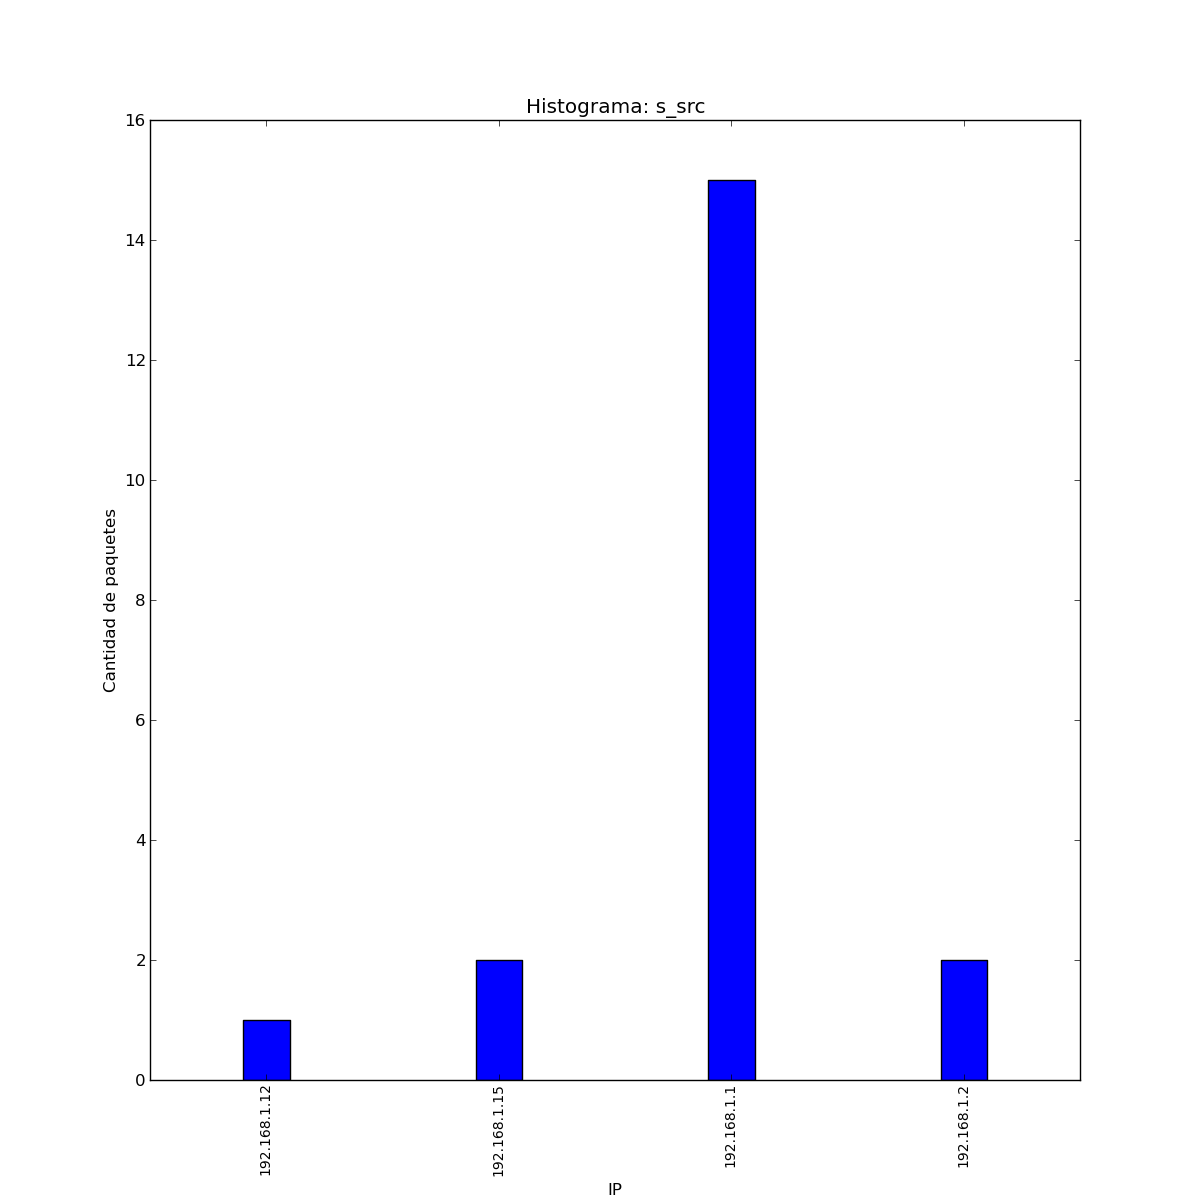
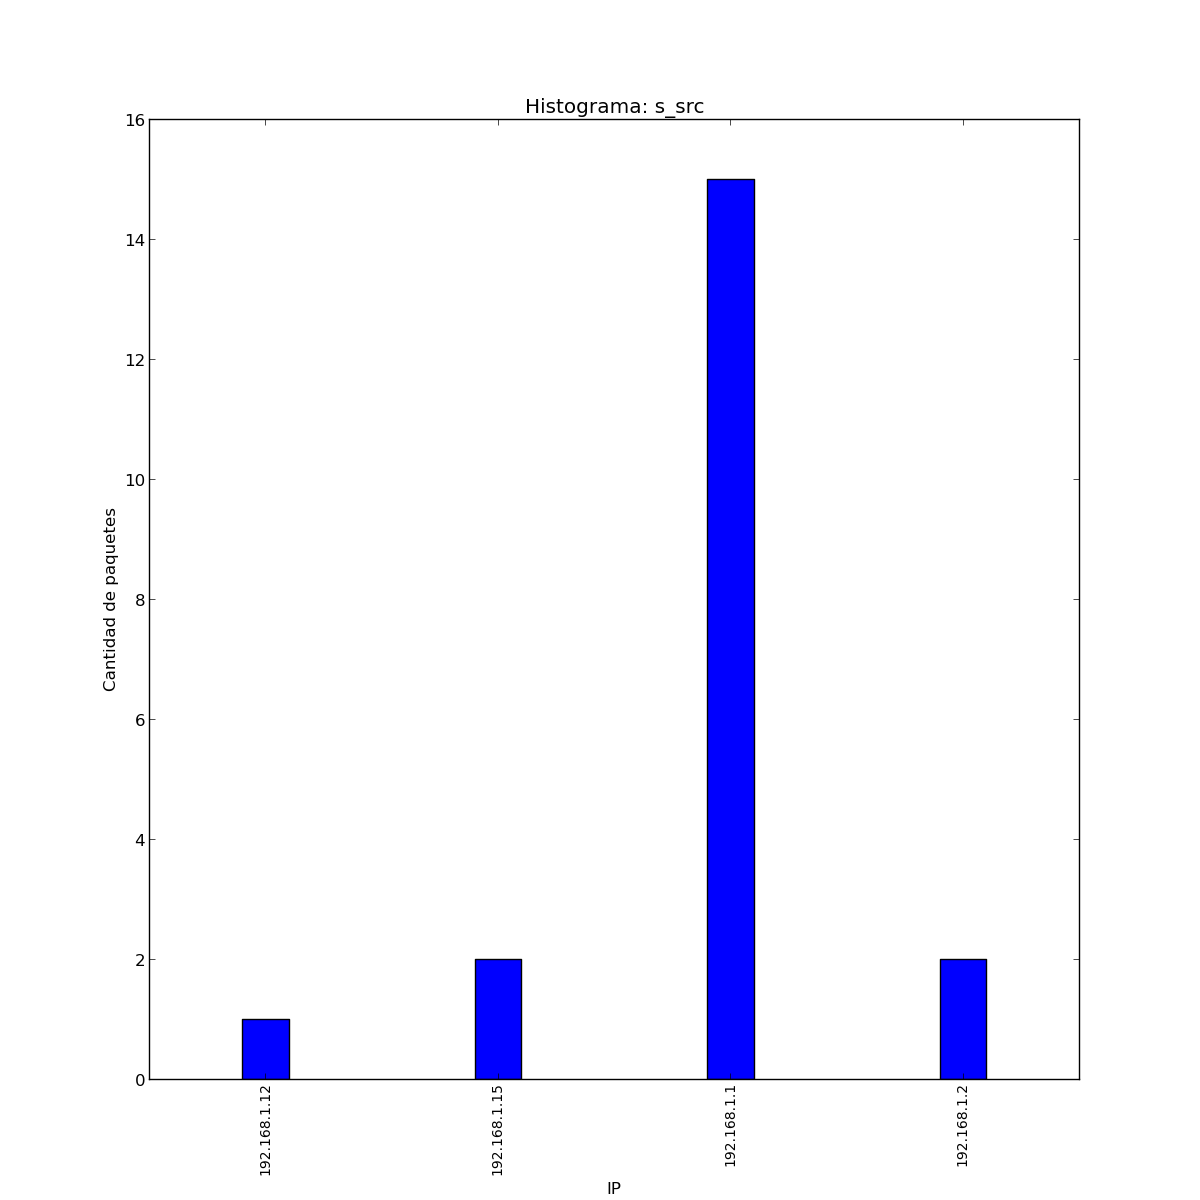
informe hogareño

diff --git a/informe/informe.tex b/informe/informe.tex
@@ -182,11 +182,9 @@ entropía total
 \subsection{Red hogareña}
 
 \subsubsection{Descripción}
+Para nuestro último experimento, capturamos el tráfico de la LAN de un integrante de nuestro grupo. Medimos el Miércoles 17 de Septiembre a las 00:00 utilizando la red Wi-Fi. El tiempo de medición fue de aproximadamente 40 minutos, y capturamos aproximadamente 20 paquetes.
 
-lugar, dia de la semana, hora aproximada, fecha, wifi o ethernet
-cantidad de paquetes tomados, tiempo de muestreo
-
-Capturamos el tráfico de la LAN de un integrante de nuestro grupo. A continuación presentamos un grafo que muestra el pasaje de paquetes ARP entre las distintas IPs.
+\subsubsection{Topología de la red}
 
 \begin{figure}[H]
   \begin{center}
@@ -196,35 +194,37 @@ Capturamos el tráfico de la LAN de un integrante de nuestro grupo. A continuaci
   \end{center}
 \end{figure}
 
-
- % \begin{figure}[H]
- %   \begin{minipage}{0.5\linewidth}
- %     \includegraphics[width=\linewidth]{graficos/goloso_tiempo.eps}
- %     \caption{Tiempo ejecución goloso}\label{fig:goloso-tiempo}
- %   \end{minipage}
- %  \hfill
- %   \begin{minipage}{0.5\linewidth}
- %     \includegraphics[width=\linewidth]{graficos/goloso_tiempo_div_n.eps}
- %     \caption{Tiempo de goloso dividido n}\label{fig:goloso-tiempo-n}
- %   \end{minipage}
- % \end{figure}
-
-
-\subsubsection{Topología de la red}
-
-grafico del grafo de la red
-
 \subsubsection{Fuente: $S_{dst}$}
 
-histograma
-grafico de informacion
-entropía total
+$\bullet$ Entropía de la fuente: 1.49046857073
+
+\begin{figure}[H]
+  \begin{minipage}{0.5\linewidth}
+    \includegraphics[width=\linewidth]{../imgs/pruebaFede-ips_s_dst_hist.png}
+    \caption{Histograma de $S_{dst}$}\label{fig:Fede-dst-hist}
+  \end{minipage}
+\hfill
+  \begin{minipage}{0.5\linewidth}
+    \includegraphics[width=\linewidth]{../imgs/pruebaFede-ips_s_dst_info.png}
+    \caption{Informacion de $S_{dst}$}\label{fig:Fede-dst-info}
+  \end{minipage}
+\end{figure}
 
 \subsubsection{Fuente: $S_{src}$}
 
-histograma
-grafico de informacion
-entropía total
+$\bullet$ Entropía de la fuente: 1.19176014818
+
+\begin{figure}[H]
+  \begin{minipage}{0.5\linewidth}
+    \includegraphics[width=\linewidth]{../imgs/pruebaFede-ips_s_src_hist.png}
+    \caption{Histograma de $S_{src}$}\label{fig:Fede-src-hist}
+  \end{minipage}
+\hfill
+  \begin{minipage}{0.5\linewidth}
+    \includegraphics[width=\linewidth]{../imgs/pruebaFede-ips_s_src_info.png}
+    \caption{Informacion de $S_{src}$}\label{fig:Fede-src-info}
+  \end{minipage}
+\end{figure}
 
 \section{Discusión general}
 
